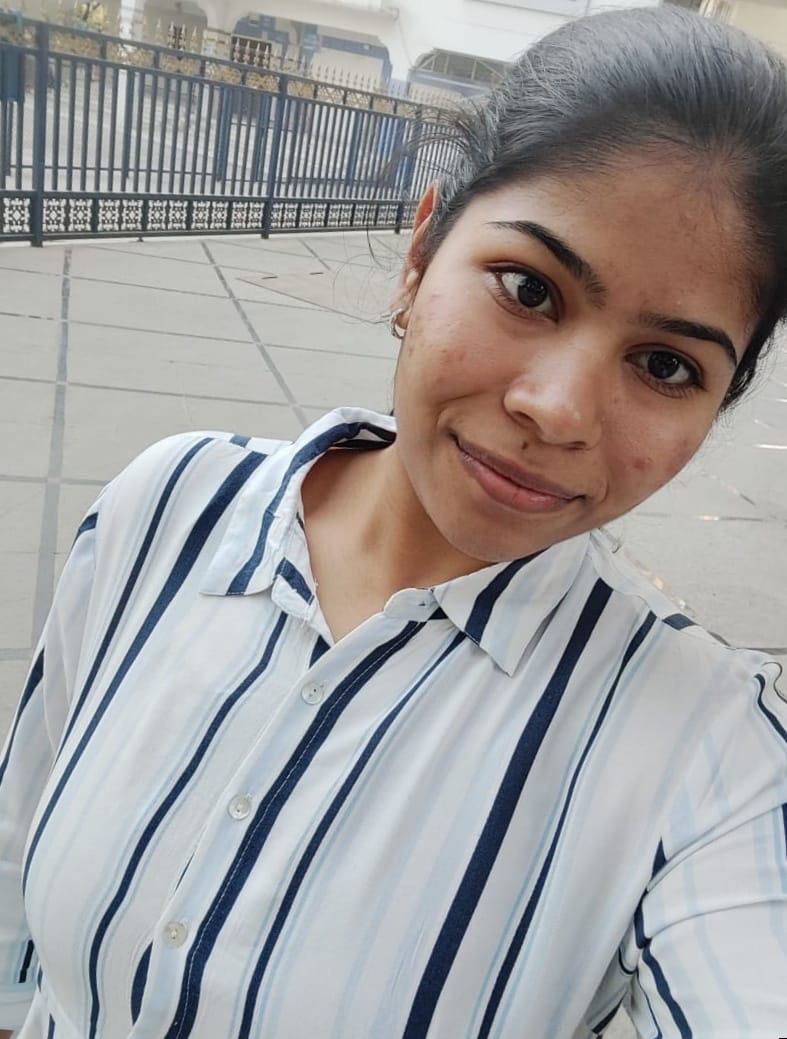
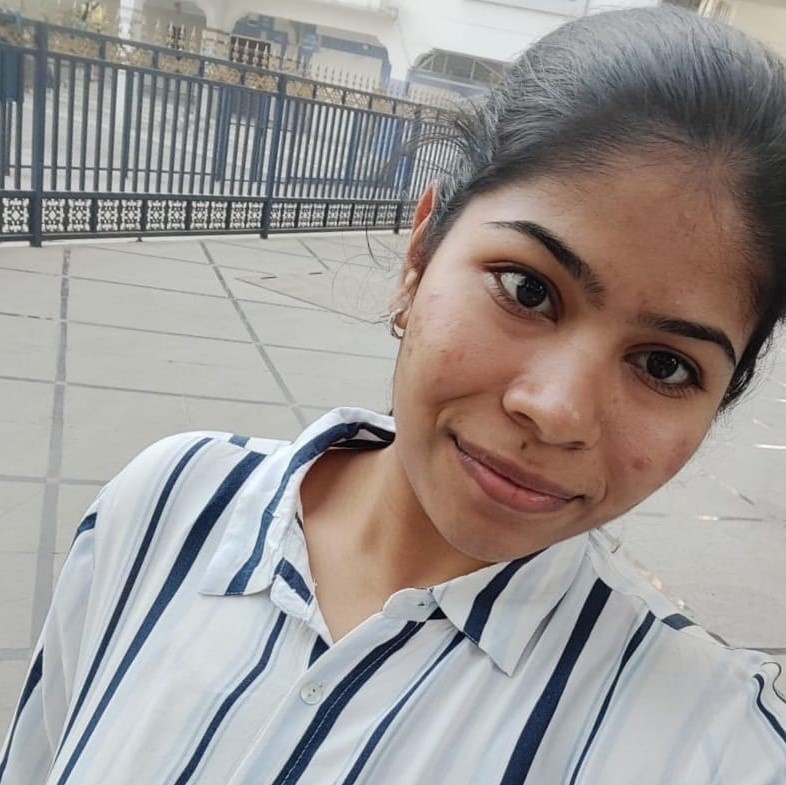
profile image issues fixed

diff --git a/teams.html b/teams.html
@@ -206,7 +206,7 @@
 
         <div class="our-team">
             <div class="picture">
-                <img class="img-fluid" src="img/ankit.jpeg">
+                <img class="img-fluid" src="img/ankit.png">
             </div>
             <div class="team-content">
                 <h3 class="name">Ankit Singh</h3>
@@ -251,7 +251,7 @@
     <div class="flex-box">
         <div class="our-team">
             <div class="picture">
-                <img class="img-fluid" src="img/ayush.jpeg">
+                <img class="img-fluid" src="img/ayush.png">
             </div>
             <div class="team-content">
                 <h3 class="name">Ayush Gupta</h3>
@@ -268,7 +268,7 @@
         </div>
         <div class="our-team">
             <div class="picture">
-                <img class="img-fluid" src="img/manish.jpeg">
+                <img class="img-fluid" src="img/manish.png">
             </div>
             <div class="team-content">
                 <h3 class="name">Manish Bibhu</h3>
@@ -285,7 +285,7 @@
         </div>
         <div class="our-team">
             <div class="picture">
-                <img class="img-fluid" src="img/aakash.jpeg">
+                <img class="img-fluid" src="img/aakash.png">
             </div>
             <div class="team-content">
                 <h3 class="name">Aakashdeep Srivastava</h3>
@@ -307,7 +307,7 @@
     <div class="flex-box">
         <div class="our-team">
             <div class="picture">
-                <img class="img-fluid" src="img/ankit.jpeg">
+                <img class="img-fluid" src="img/ankit.png">
             </div>
             <div class="team-content">
                 <h3 class="name">Ankit Singh</h3>
@@ -332,7 +332,7 @@
             </div>
             <ul class="social">
                 <li>
-                    <a href="mailto:abulaman6@gmail.com" class="fa fa-envelope" aria-hidden="true"></a>
+                    <a href="mailto:21f1000506@student.onlinedegree.iitm.ac.in" class="fa fa-envelope" aria-hidden="true"></a>
                 </li>
                 <li>
                     <a href="https://www.linkedin.com/in/abul-aman-67481a222" class="fa fa-linkedin" aria-hidden="true"></a>
@@ -364,7 +364,7 @@
     <div class="flex-box">
         <div class="our-team">
             <div class="picture">
-                <img class="img-fluid" src="img/kanika.jpeg">
+                <img class="img-fluid" src="img/kanika.png">
             </div>
             <div class="team-content">
                 <h3 class="name">Kanika Varandani</h3>

diff --git a/index.html b/index.html
@@ -322,7 +322,7 @@
         </h2>
         <div class="judges">
             <div class="judge-card">
-                <img src="img/daksh.jpeg" alt="Daksh Miglani">
+                <img src="img/daksh.png" alt="Daksh Miglani">
                 <h4>Daksh Miglani</h4>
                 <p>Founder & CTO <br>Market.xyz & Adler</p>
             </div>
@@ -361,7 +361,8 @@
             <div class="mentor-card">
                 <img src="img/devashish.jpeg" alt="Devashish Soni">
                 <h4>Devashish Soni</h4>
-                <p>Data Scientist <br>Crayon Data</b></p>
+                <p>Data Scientist <br>Crayon Data</b>
+                </p>
             </div>
 
         </div>

diff --git a/css/style.css b/css/style.css
@@ -397,6 +397,8 @@ footer h3 {
     text-align: center;
     margin-top: 40px;
     margin-top: 30px;
+    margin-left: 18px;
+    margin-right: 18px;
 }
 
 .judge-card img {
